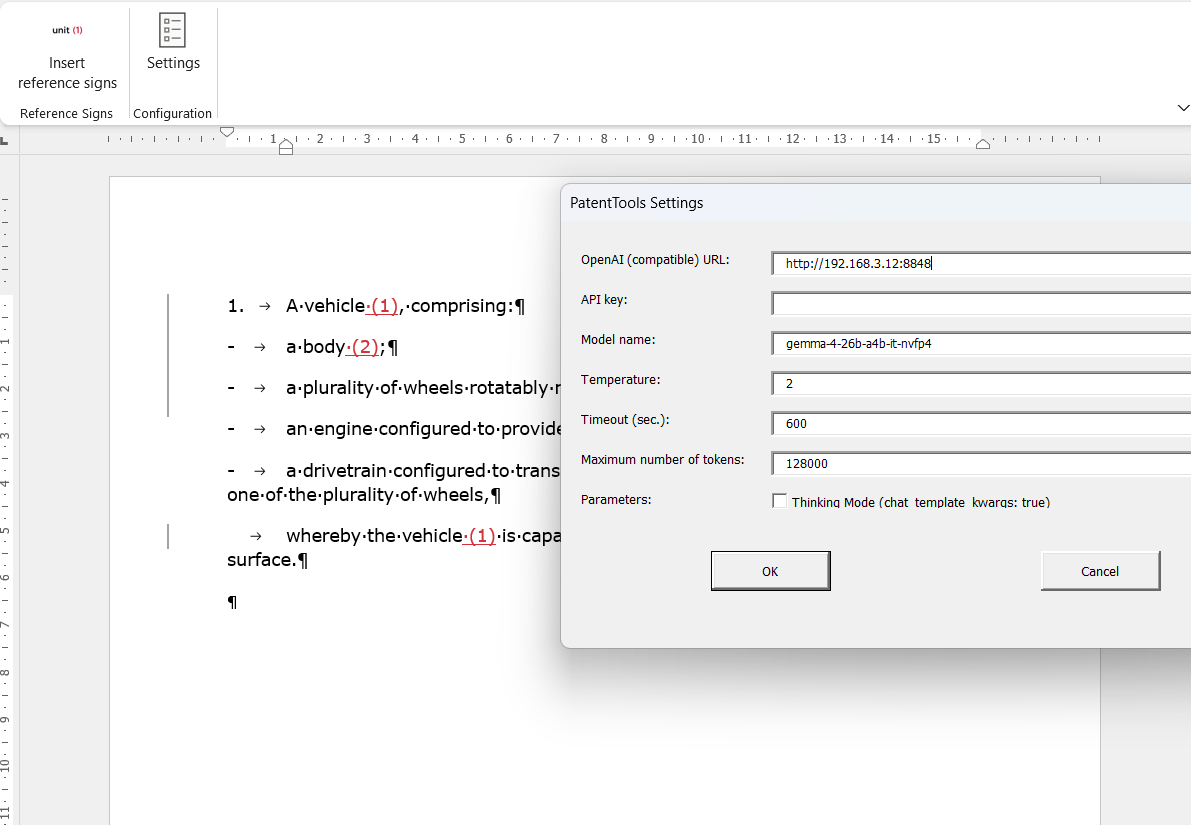
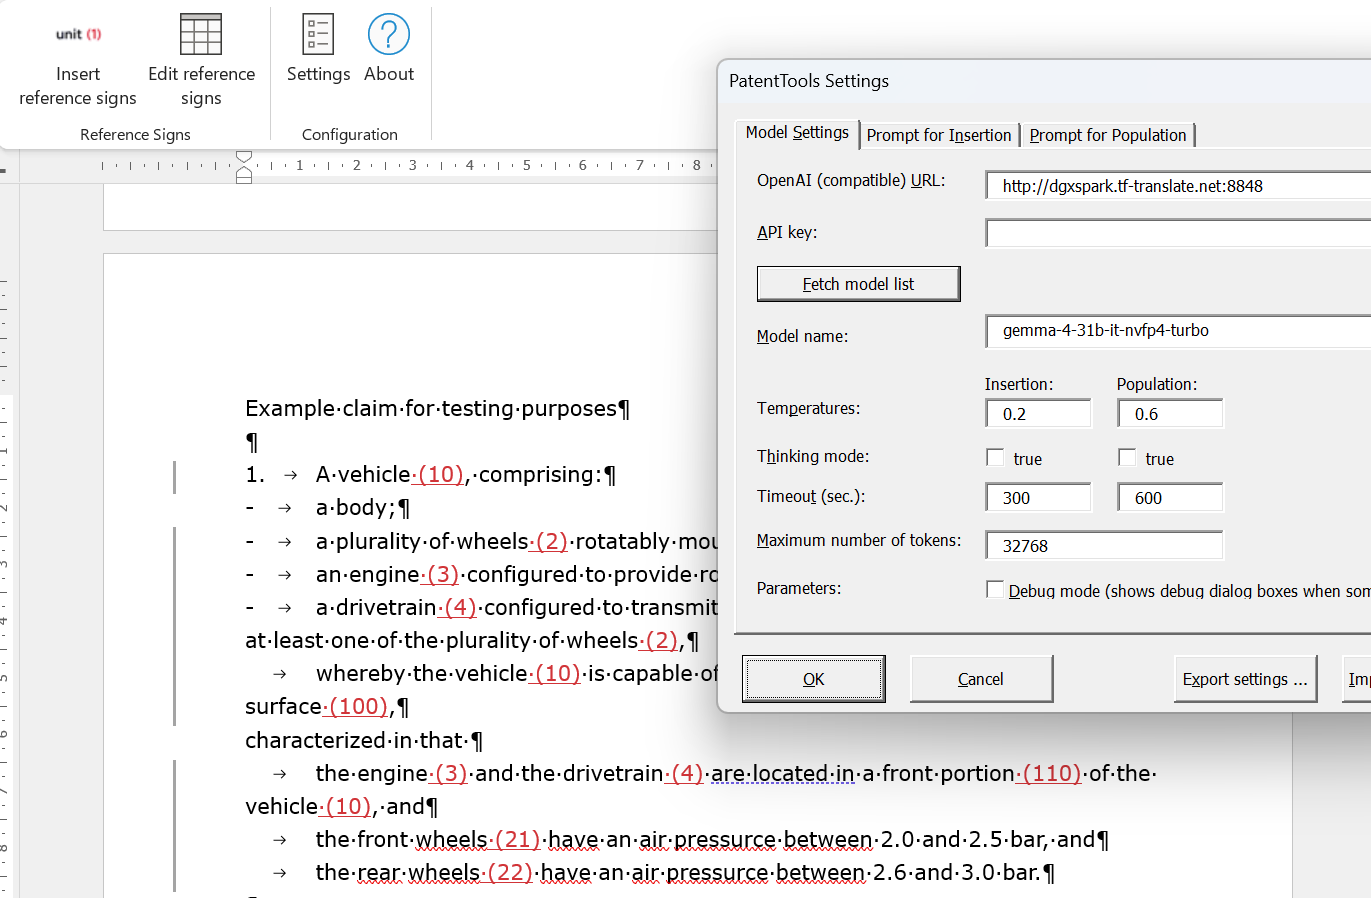
Updated screenshot and README

diff --git a/README.md b/README.md
@@ -89,6 +89,8 @@ Recommended safe usage:
 This add-in has been validated with:
 
 - **Model:** gemma-4 31b, qwen-3.8 27b, and gpt-oss-120b
+
+  Note: For gemma and qwen, turn ```thinking```off for claim insertion, but on for population. For gpt-oss, turn ```thinking```off for both.
 - **Mode:** non-thinking mode / low reasoning effort
 - **Endpoint type:** OpenAI-compatible chat completions API
 
@@ -202,15 +204,60 @@ This error message occurs when the model outputs extra words or otherwise reorde
 
 ### Repository contents
 
-Typical repository structure:
+Current repository structure:
 
 ```
-textPatentTools/
-├─ PatentTools.dotm
-├─ README.md
-└─ docs/
-   └─ settings-dialog.png
+.github/
+  FUNDING.yml
+.gitignore
+AI_USAGE.md
+BUILD.md
+Build-PatentTools.cmd
+CHANGELOG.md
+LICENSE
+README.md
+docs/
+  screenshot.png
+scripts/
+  Build-PatentTools.ps1
+source/
+  package/
+    [Content_Types].xml
+    _rels/
+      .rels
+  ribbon/
+    customUI/
+      _rels/
+        customUI14.xml.rels
+      customUI14.xml
+      images/
+        refsignicon.png
+  vba/
+    frmPatentToolsSettings.frm
+    frmPatentToolsSettings.frx
+    frmPromptPreview.frm
+    frmPromptPreview.frx
+    frmRefList.frm
+    frmRefList.frx
+    modHttpStream.bas
+    modJsonHelper.bas
+    modPatentToolsconfig.bas
+    modRefSigns.bas
+    modRibbon.bas
+template/
+  PatentTools.base.dotm
 ```
+
+| Directory / File | Purpose |
+|---|---|
+| `source/vba/` | VBA module, form, and frx files (macros) |
+| `source/ribbon/` | Custom UI XML defining the Ribbon tab and icons |
+| `source/package/` | OPC package structure for rebuilding `.dotm` from source |
+| `template/` | The base template (`PatentTools.base.dotm`) used to build `.dotm` |
+| `scripts/` | PowerShell helper scripts for building the add-in |
+| `docs/` | Screenshots and images |
+| `.github/FUNDING.yml` | Donation configuration for "Buy me a coffee" link |
+| `AI_USAGE.md`, `BUILD.md` | Project documentation for AI usage and build process |
 
 ## Status
 

diff --git a/CHANGELOG.md b/CHANGELOG.md
@@ -12,8 +12,10 @@ The project uses semantic-style versioning while it remains in pre-1.0 developme
 - Table of reference signs is now persistent on a document level.
 - Call model in streaming mode for better progress feedback.
 - System prompt for reference sign insertion is now mostly user-editable.
+- Support for gpt-oss-120b
 
 ### Changed
+- Changed the matching logic to recover from cases where the model omits up to two tokens. This helps with gpt-oss, which tends to omit the claim number in the preamble feature.
 - Separated editing the reference sign table and inserting reference into two separate ribbon icons.
 - Reworked the settings dialog.
 - Heavy editing on the README, removed fluff, adapted to latest version.
